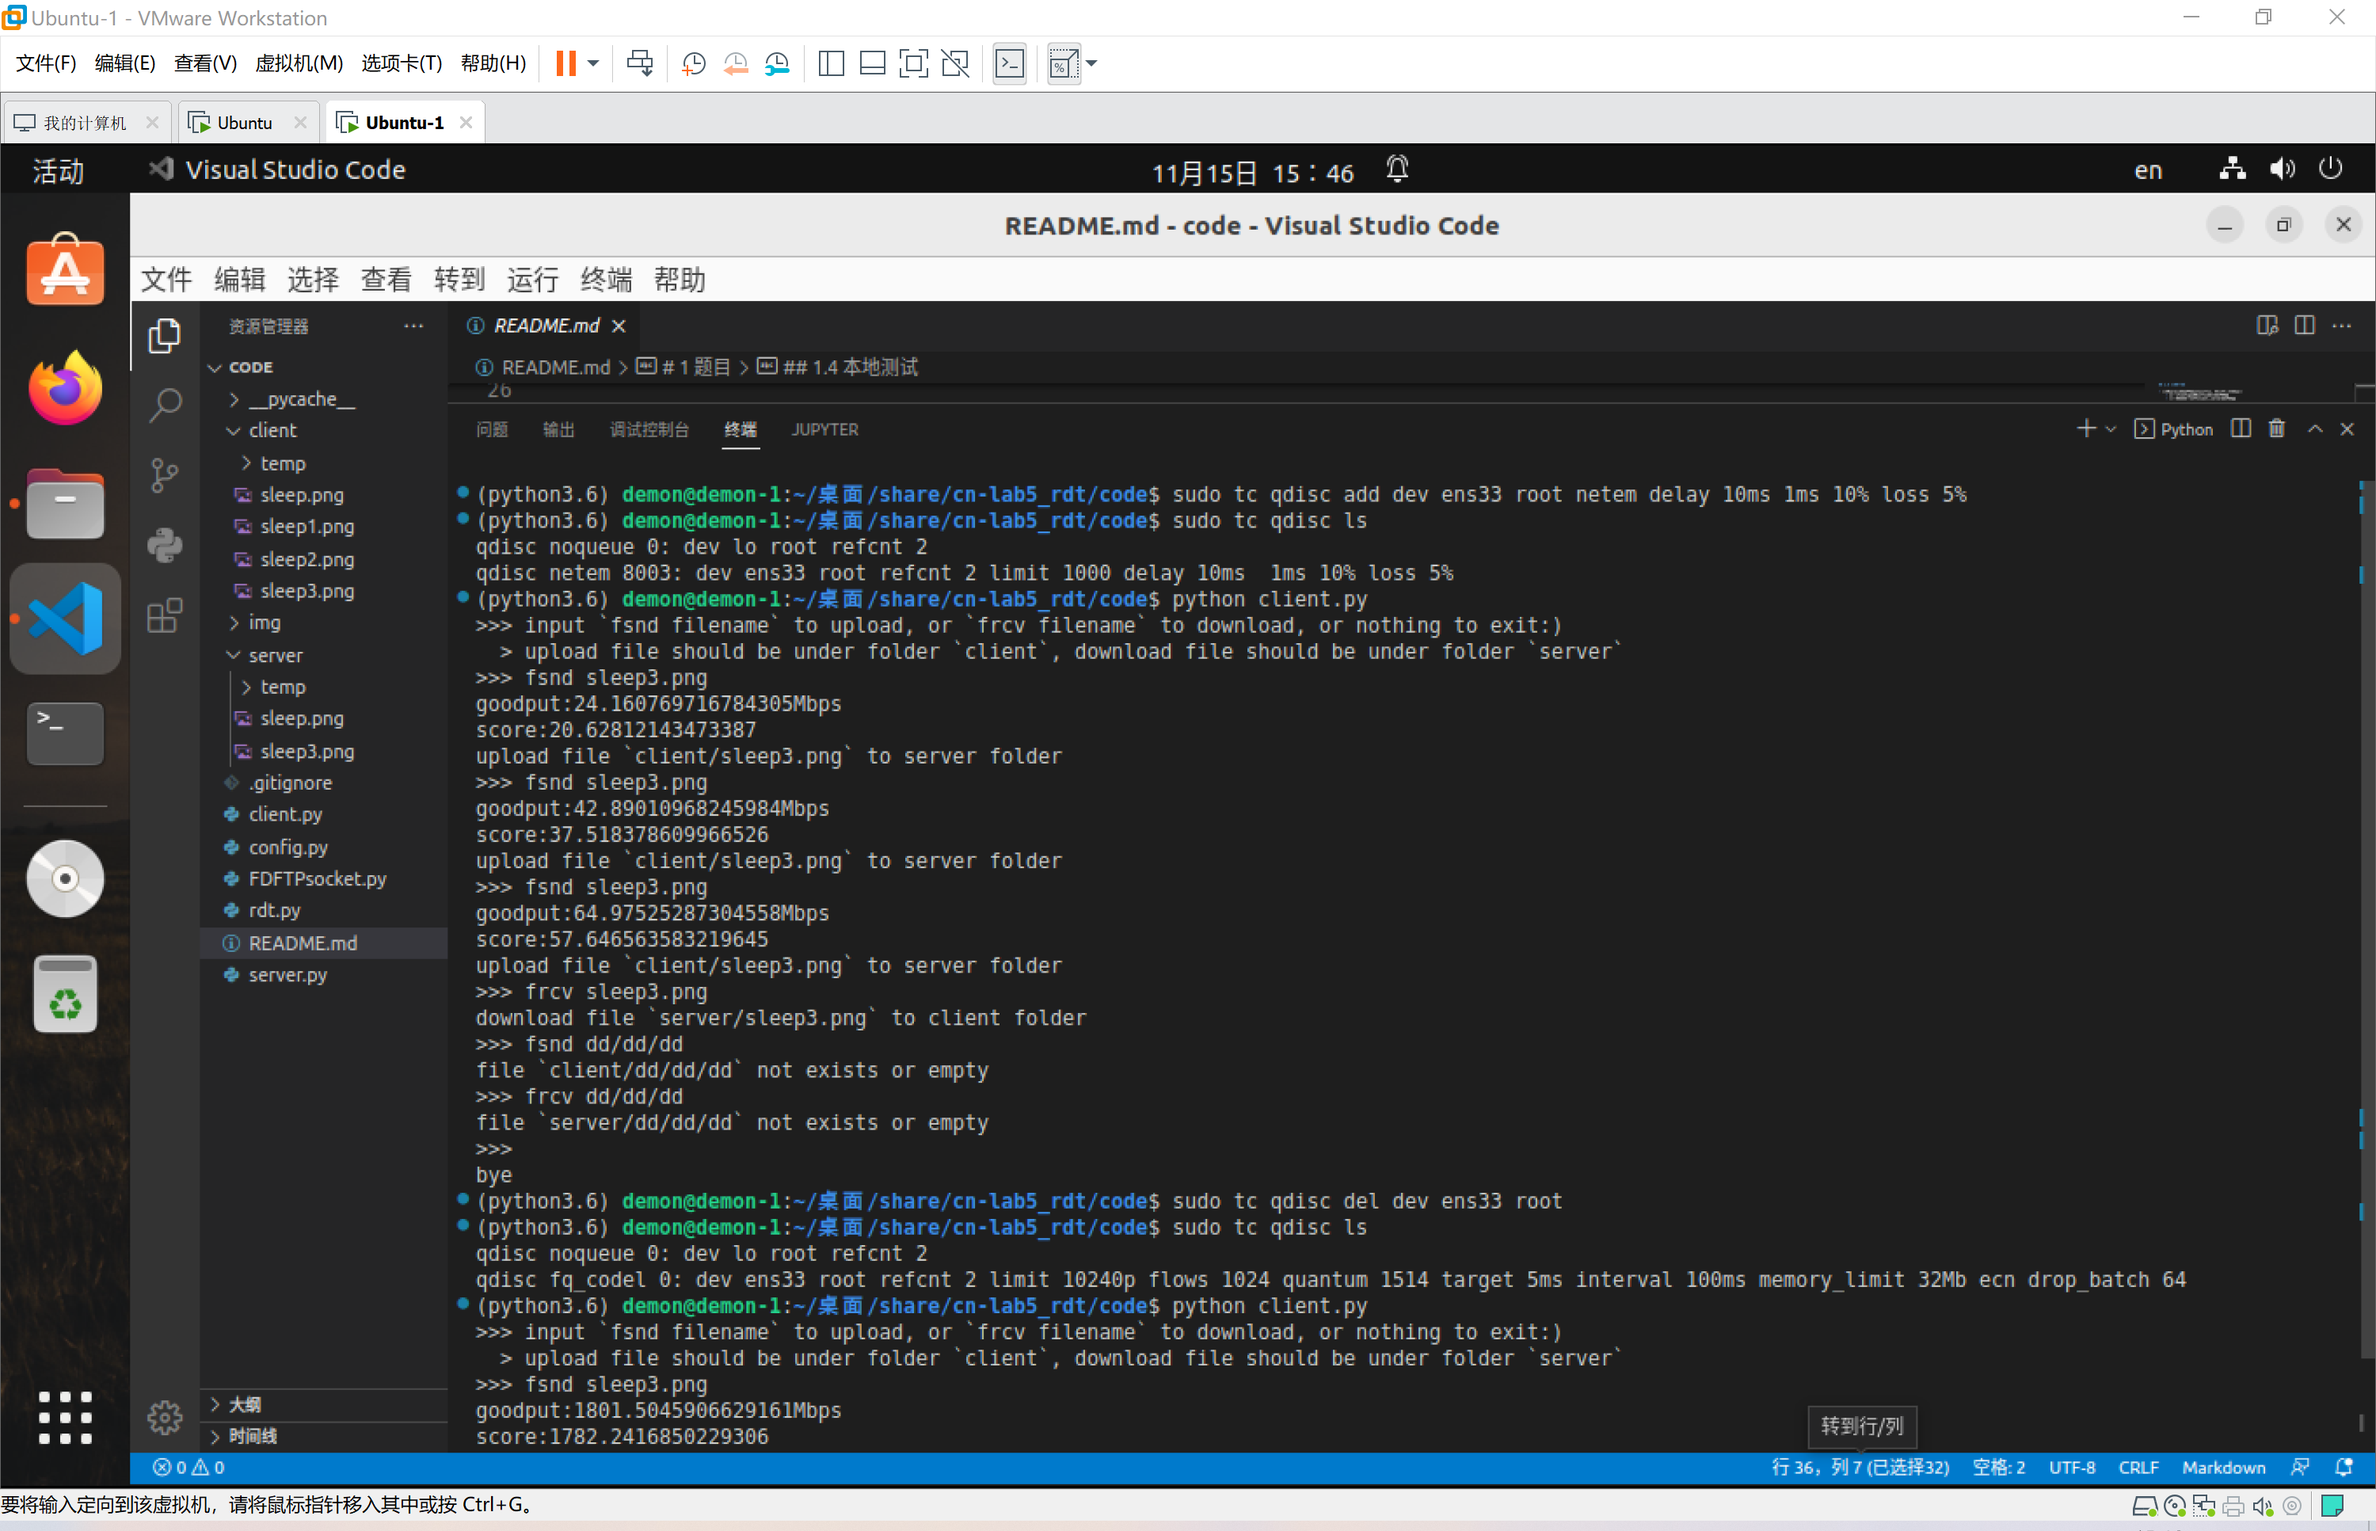
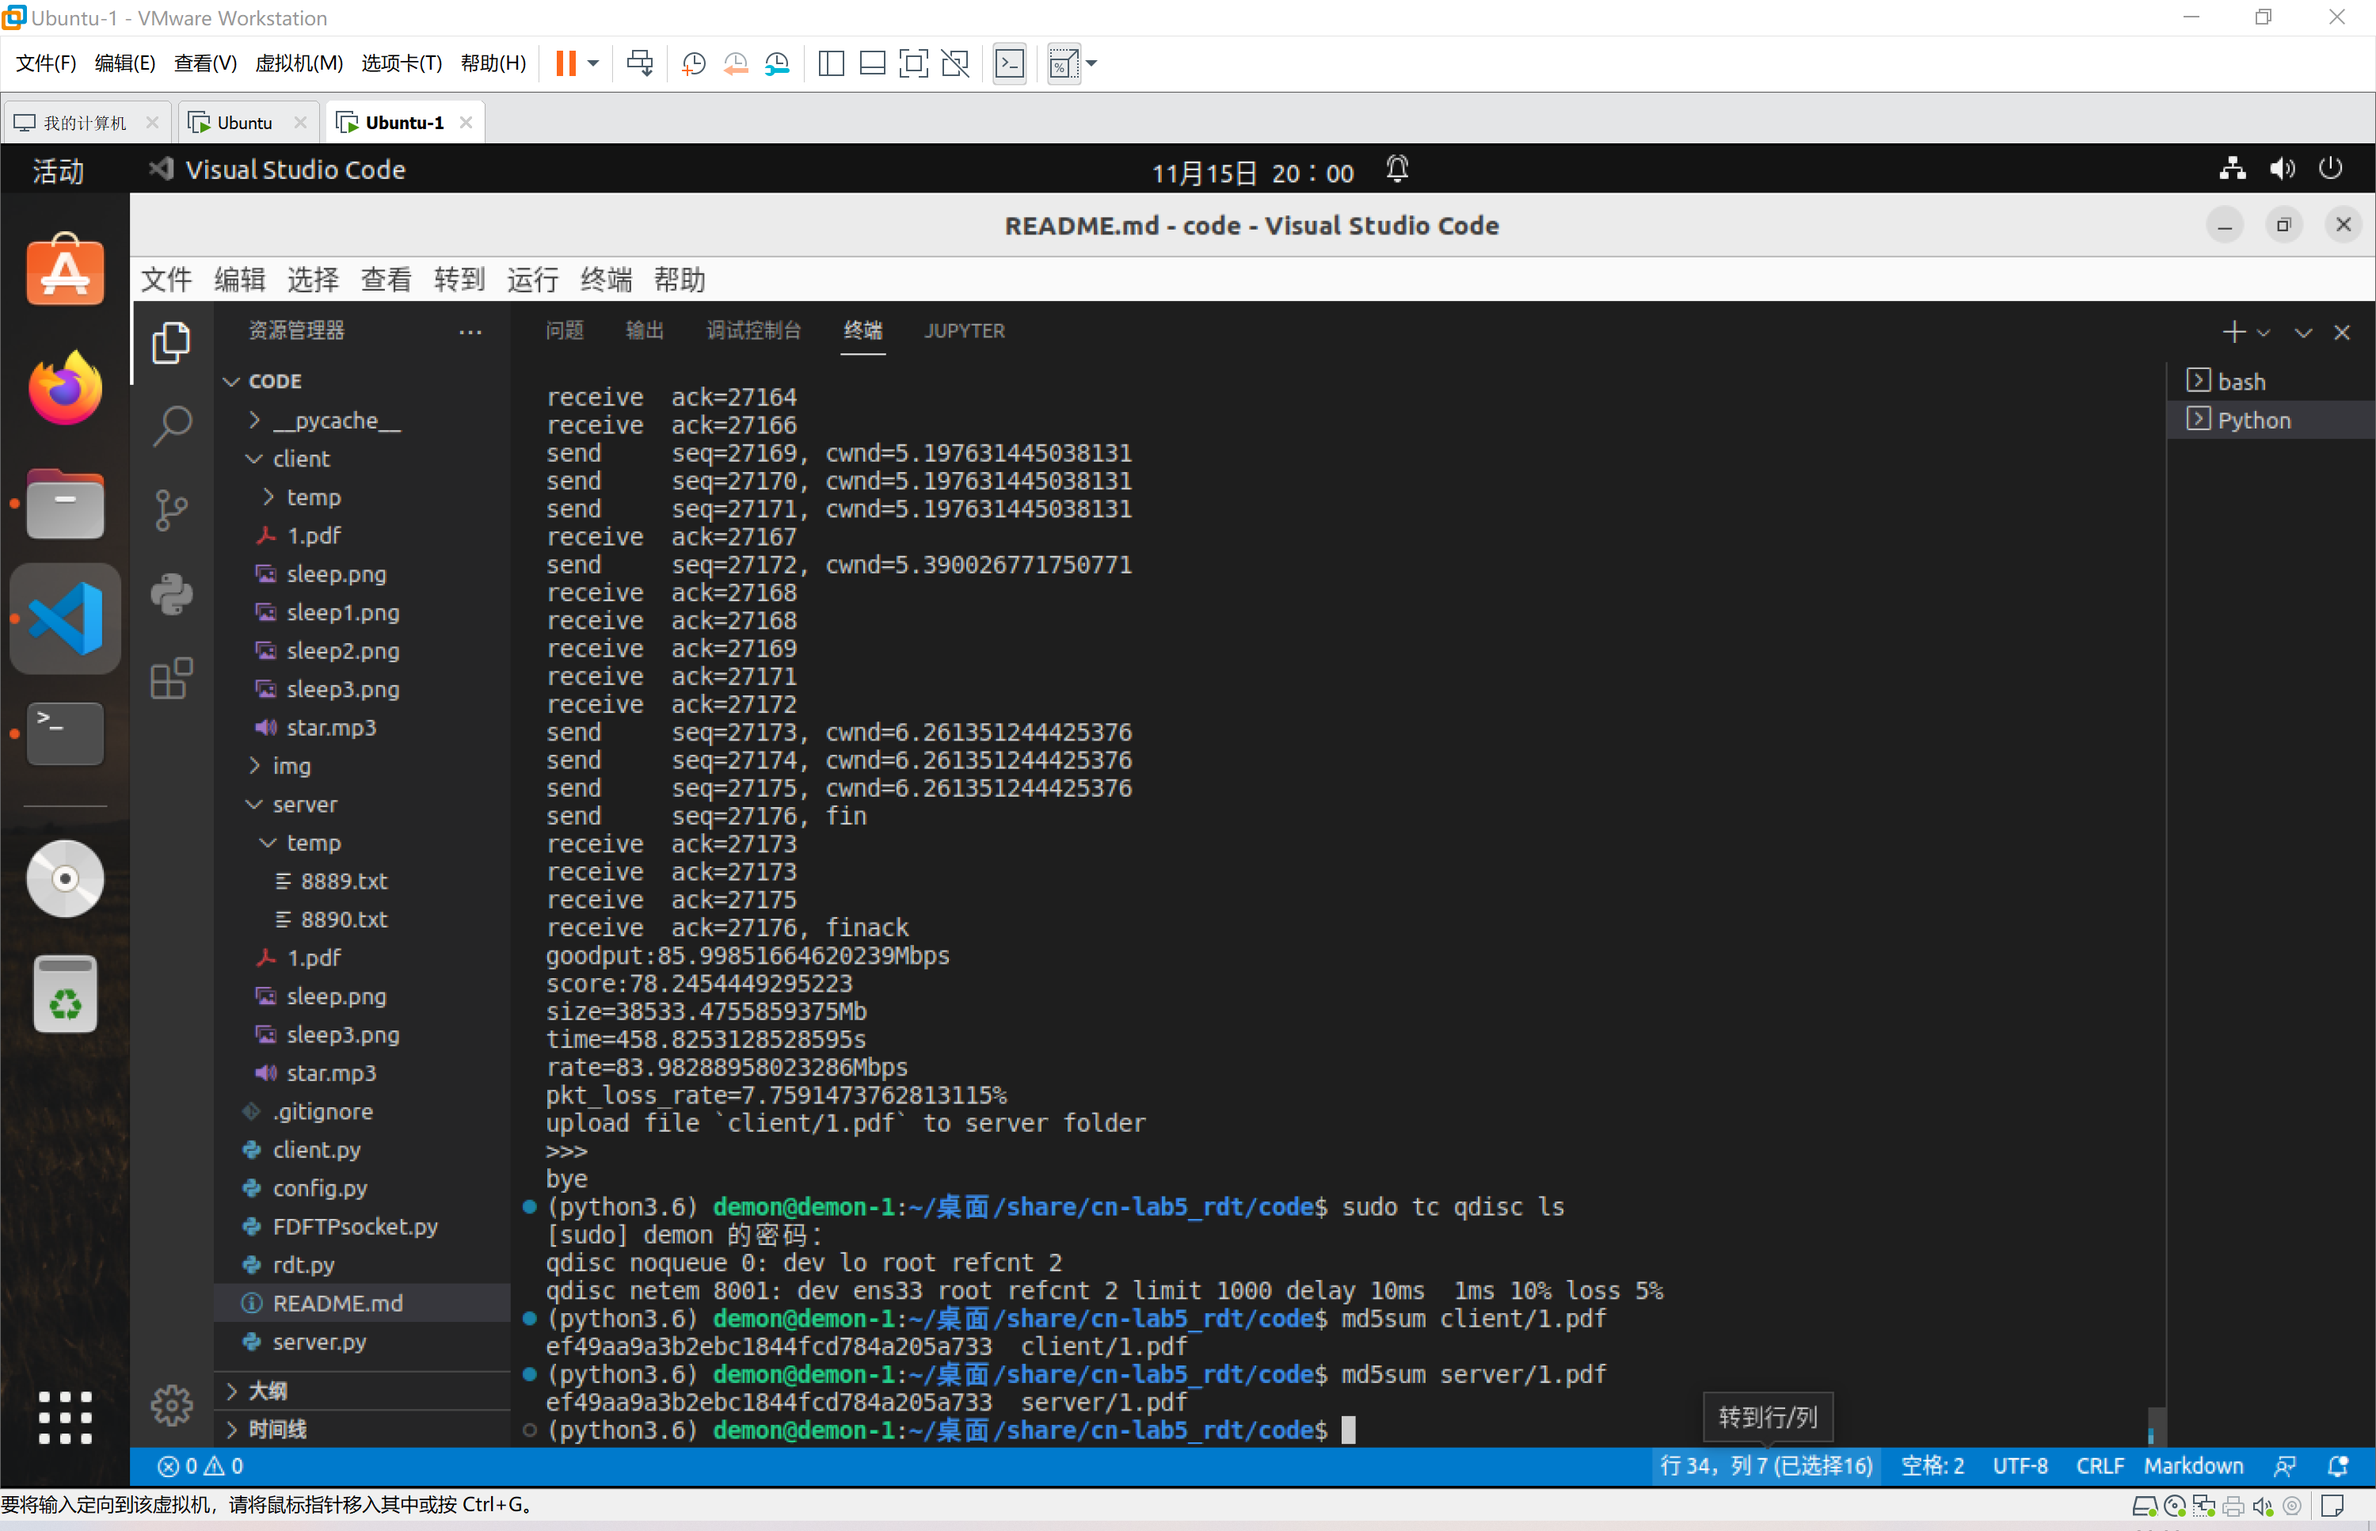
update config

diff --git a/rdt.py b/rdt.py
@@ -1,11 +1,11 @@
 from config import *
 from FDFTPsocket import *
-import struct
-import math
-import os
 import socket
-from threading import Thread, Lock
-from time import *
+import struct
+import os
+import time
+import math
+import threading
 
 class rdt:
     
@@ -14,13 +14,13 @@ class rdt:
         self.socket = socket.socket(socket.AF_INET, socket.SOCK_DGRAM)
         self.temp_filepath = ''
     
-    def make_pkt(self, length=PACKET_SIZE, seq=0, ack=0, isfin=0, issyn=0, data=' '.encode()):
+    def make_pkt(self, length=MSS, seq=0, ack=0, isfin=0, issyn=0, data=' '.encode()):
         '''make transport layer packet'''
-        return struct.pack('5i' + str(PACKET_SIZE) + 's', length, seq, ack, isfin, issyn, data)
+        return struct.pack('5i' + str(MSS) + 's', length, seq, ack, isfin, issyn, data)
 
     def extract(self, rcvpkt):
         '''extract transport layer packet'''
-        return struct.unpack('5i' + str(PACKET_SIZE) + 's', rcvpkt)
+        return struct.unpack('5i' + str(MSS) + 's', rcvpkt)
     
     def __rdt_send(self, size):
         '''application layer to transport layer'''
@@ -40,6 +40,7 @@ class rdt:
     def __deliver_data(self):
         '''transport layer to application layer'''
         self.file.write(self.deliver_data)
+        self.file.flush()
         
     def __send_msg_pkt(self, addr):
         '''sender: send packets inside cwnd, GBN if timeout'''
@@ -55,12 +56,12 @@ class rdt:
                     send_now = True # fast retransmit
                     if DEBUG: print(f'FR')
                 # timeout
-                if CONG_TIMEOUT < (time() - self.timer):
+                if CONG_TIMEOUT < (time.time() - self.timer):
                     self.ssthresh = max(float(math.floor(self.cwnd / 2)), 1.0)
                     self.cwnd = 1.0
                     self.nextseqnum = self.send_base
                     send_now = True # retransmit
-                    self.timer = time()
+                    self.timer = time.time()
                     if DEBUG: print(f'timeout  ssthresh={self.ssthresh}')
                 # send packet
                 if self.send_base <= self.nextseqnum and self.nextseqnum < self.send_base + int(self.cwnd) and self.nextseqnum <= self.PACKETS_NUM:
@@ -69,7 +70,7 @@ class rdt:
                         if self.nextseqnum == self.PACKETS_NUM:
                             self.send_buffer.append(self.__rdt_send(self.LAST_PACKET_SIZE))
                         else:
-                            self.send_buffer.append(self.__rdt_send(PACKET_SIZE))
+                            self.send_buffer.append(self.__rdt_send(MSS))
                         self.bufferedseqnum = self.nextseqnum
                         send_now = True # new pkt
                     # send packet
@@ -119,10 +120,10 @@ class rdt:
                                 self.cwnd = self.ssthresh + 3.0
                                 self.nextseqnum = self.send_base
                                 self.fast_retransmit = True
-                                self.timer = time()
+                                self.timer = time.time()
                             if self.dulplicate_ack > 3:
-                                self.cwnd += 1.0
-                                self.timer = time()
+                                self.cwnd += 1.0 / self.cwnd
+                                self.timer = time.time()
                         # recive confirming ack
                         if self.send_base <= ack:
                             if self.dulplicate_ack >= 3:
@@ -132,7 +133,7 @@ class rdt:
                             self.send_base = self.send_base + gap
                             self.nextseqnum = self.send_base
                             del self.send_buffer[0:gap]
-                            self.timer = time()
+                            self.timer = time.time()
                             for i in range(gap):
                                 if self.cwnd < self.ssthresh:
                                     self.cwnd += 1.0
@@ -194,7 +195,6 @@ class rdt:
                     if length != 0: # length == 0 means download empty file
                         self.deliver_data = self.deliver_data + data[:length]
                         self.__deliver_data()
-                        self.file.flush()
                         self.deliver_data = bytes()
                         if DEBUG: print('flush remaining pkts')
                     ack = self.expectedseqnum
@@ -216,14 +216,14 @@ class rdt:
         if os.path.isfile(source_path): # open file
             self.file = open(source_path, 'rb')
             self.FILE_SIZE = os.path.getsize(source_path)
-            self.PACKETS_NUM = self.FILE_SIZE // PACKET_SIZE + 1
-            self.LAST_PACKET_SIZE = self.FILE_SIZE - (self.PACKETS_NUM - 1) * PACKET_SIZE
+            self.PACKETS_NUM = self.FILE_SIZE // MSS + 1
+            self.LAST_PACKET_SIZE = self.FILE_SIZE - (self.PACKETS_NUM - 1) * MSS
         else: # empty file
             self.PACKETS_NUM = 1
             self.LAST_PACKET_SIZE = 0
         # send msg
         self.send_buffer = []
-        self.timer = time()
+        self.timer = time.time()
         self.send_base = 1
         self.nextseqnum = 1
         self.bufferedseqnum = 0
@@ -236,22 +236,22 @@ class rdt:
         # semaphores and lock between 2 thead
         self.fast_retransmit = False # sem
         self.disconnect = False # sem
-        self.lock = Lock() # lock
+        self.lock = threading.Lock() # lock
         # send pkts and receive acks
         self.use_task = False
         if os.path.isfile(source_path) and not is_temp_file: # use task only if transfer valid file
-            beg_time = time()
+            beg_time = time.time()
             self.use_task = True
             self.task = Task(source_path)
-        send = Thread(target=self.__send_msg_pkt, args=(addr, ))
-        receive = Thread(target=self.__receive_ack_pkt)
+        send = threading.Thread(target=self.__send_msg_pkt, args=(addr, ))
+        receive = threading.Thread(target=self.__receive_ack_pkt)
         send.start()
         receive.start()
         send.join()
         receive.join()
         if self.use_task:
             self.task.finish()
-            end_time = time()
+            end_time = time.time()
             transfer_time = end_time - beg_time
             file_size_KB = self.FILE_SIZE / math.pow(2, 10)
             transfer_rate = file_size_KB / transfer_time
@@ -267,7 +267,6 @@ class rdt:
         # close file if necessary
         if os.path.isfile(source_path): 
             self.file.close()
-        # calculate loss pkt rate
     
     def rdt_download_file(self, dest_path, addr):
         '''client or server download file'''

diff --git a/config.py b/config.py
@@ -1,24 +1,54 @@
-# packet
-PACKET_SIZE = 2000 # TCP packet size
-BUFFER_SIZE = 2048 # receive packet buffer size
+'''packet'''
+# max segment size
+# ref: https://juejin.cn/post/6884585578344480781
+# abstract: UDP payload (1472) - 5i (20) = 1452
+# NOTE: seq and ack are int in packet, 
+#       which means can send up to roughly 2GB
+#       we can set them to q(long long) to send more
+MSS = 1452
+# socket.recvfrom(BUFFER_SIZE)
+# ref: https://cloud.tencent.com/developer/article/2107386
+# abstract: 2048 is enough, because ethernet transmits less than 1500 Bytes
+BUFFER_SIZE = 2048
 
-# client
-CLIENT_IP = 'localhost'
-# CLIENT_IP = '192.168.50.67'
+'''client'''
+# client ip
+# CLIENT_IP = 'localhost'
+CLIENT_IP = '10.219.150.142'
 
-# server
-SERVER_IP = 'localhost'
-# SERVER_IP = '192.168.50.10'
-SERVER_PORT = 8888 # welcome socket port, connection socket will increase from this
-CLIENT_TIMEOUT = 66 # if client has no movement in 66s, disconnect
+'''server'''
+# server ip
+# SERVER_IP = 'localhost'
+SERVER_IP = '10.219.226.57'
+# welcome socket port
+# connection socket will increase from this
+# it's set randomly on available port in the computer
+SERVER_PORT = 8888
+# disconnect time
+# if client has no movement in 66s, disconnect
+# it's set randomly
+CLIENT_TIMEOUT = 66
 
-# sender
-CONG_TIMEOUT = 1 # sender retransmit after 1s
-CONG_DEFALUT_SSTHRESH = 20.0 # if network is bad, set it small
+'''sender'''
+# retransmission time
+# if the network is bad, set it smaller
+# it's set randomly right now, but the better practice is to measure RTT and set dynamically
+CONG_TIMEOUT = 1
+# defalut ssthresh
+# ref: https://blog.csdn.net/lishanmin11/article/details/77165077
+# abstract: Google says cwnd default to be 10.0 is best
+CONG_DEFALUT_SSTHRESH = 10.0
 
-# receiver
-RCV_BUFSIZE = 66 # should be at least double the size of ssthresh
+'''receiver'''
+# how many pakets can recevier buffer before receive expectedseqnum
+# ref: https://blog.csdn.net/qq_44404509/article/details/109467181
+# abstract: it should be less than 65535 / MSS ≈ 43, or os will be error
+# it should be more than CONG_DEFALUT_SSTHRESH to ensure performance
+# it's set randomly here
+RCV_BUFSIZE = 36
 
-# debug
-DEBUG = False # print some info
-PERFORMANCE = True # print performance such as rate and pkt_loss_rate
+'''debug'''
+# print some info during rdt transfer
+DEBUG = True
+# print performance such as rate and pkt_loss_rate
+PERFORMANCE = True

diff --git a/server.py b/server.py
@@ -104,7 +104,7 @@ def main():
             # 3 handshakes
             connection_port, client_addr = welcome_socket.accept()
             # connection socket works
-            connection = Thread(target=communicate, args=(connection_port, client_addr))
+            connection = threading.Thread(target=communicate, args=(connection_port, client_addr))
             connection.start()
     except Exception as e:
         print(str(e))

diff --git a/README.md b/README.md
@@ -135,7 +135,7 @@
           int ack; // 确认号
           int isfin; // 结束传输(1)
           int issyn; // 握手连接(1)
-          char[PACKET_SIZE] data; // 负载
+          char[MSS] data; // 负载
       } packet;
       ```
 
@@ -166,7 +166,7 @@
 - 校验和？
 - 加分项？
 
-# 3 第二次迭代（2022.11.14-2022.11.15)
+# 3 第二次迭代（2022.11.14 - 2022.11.15)
 
 ## 3.1 功能更新
 
@@ -174,17 +174,27 @@
 - 由TCP-Tahoe变为TCP-Reno, 增加了快速重传/快速恢复机制FR/FR, 利用threading库的Lock解决并发问题
 - 传输方面导入了助教的Task模块进行性能测试
 
-## 3.2 运行
+## 3.2 测试
 
-运行效果如下
+- 环境
 
-- 客户端
+  - sudo tc qdisc add dev ens33 root netem delay 10ms 1ms 10% loss 5%
+  - 客户端向服务器传送一个约38MB的pdf文件
+
+- 运行截图
 
   ![v2-client](img/v2-client.png)
 
-- 服务器
+- 由md5sum得知文件传送无误, 且其性能参数提取如下
 
-  ![v2-server](img/v2-server.png)
+  ``` plain
+  goodput:85.99851664620239Mbps
+  score:78.2454449295223
+  size=38533.4755859375Mb
+  time=458.8253128528595s
+  rate=83.98288958023286Mbps
+  pkt_loss_rate=7.7591473762813115%
+  ```
 
 ## 3.3 TODO
 
